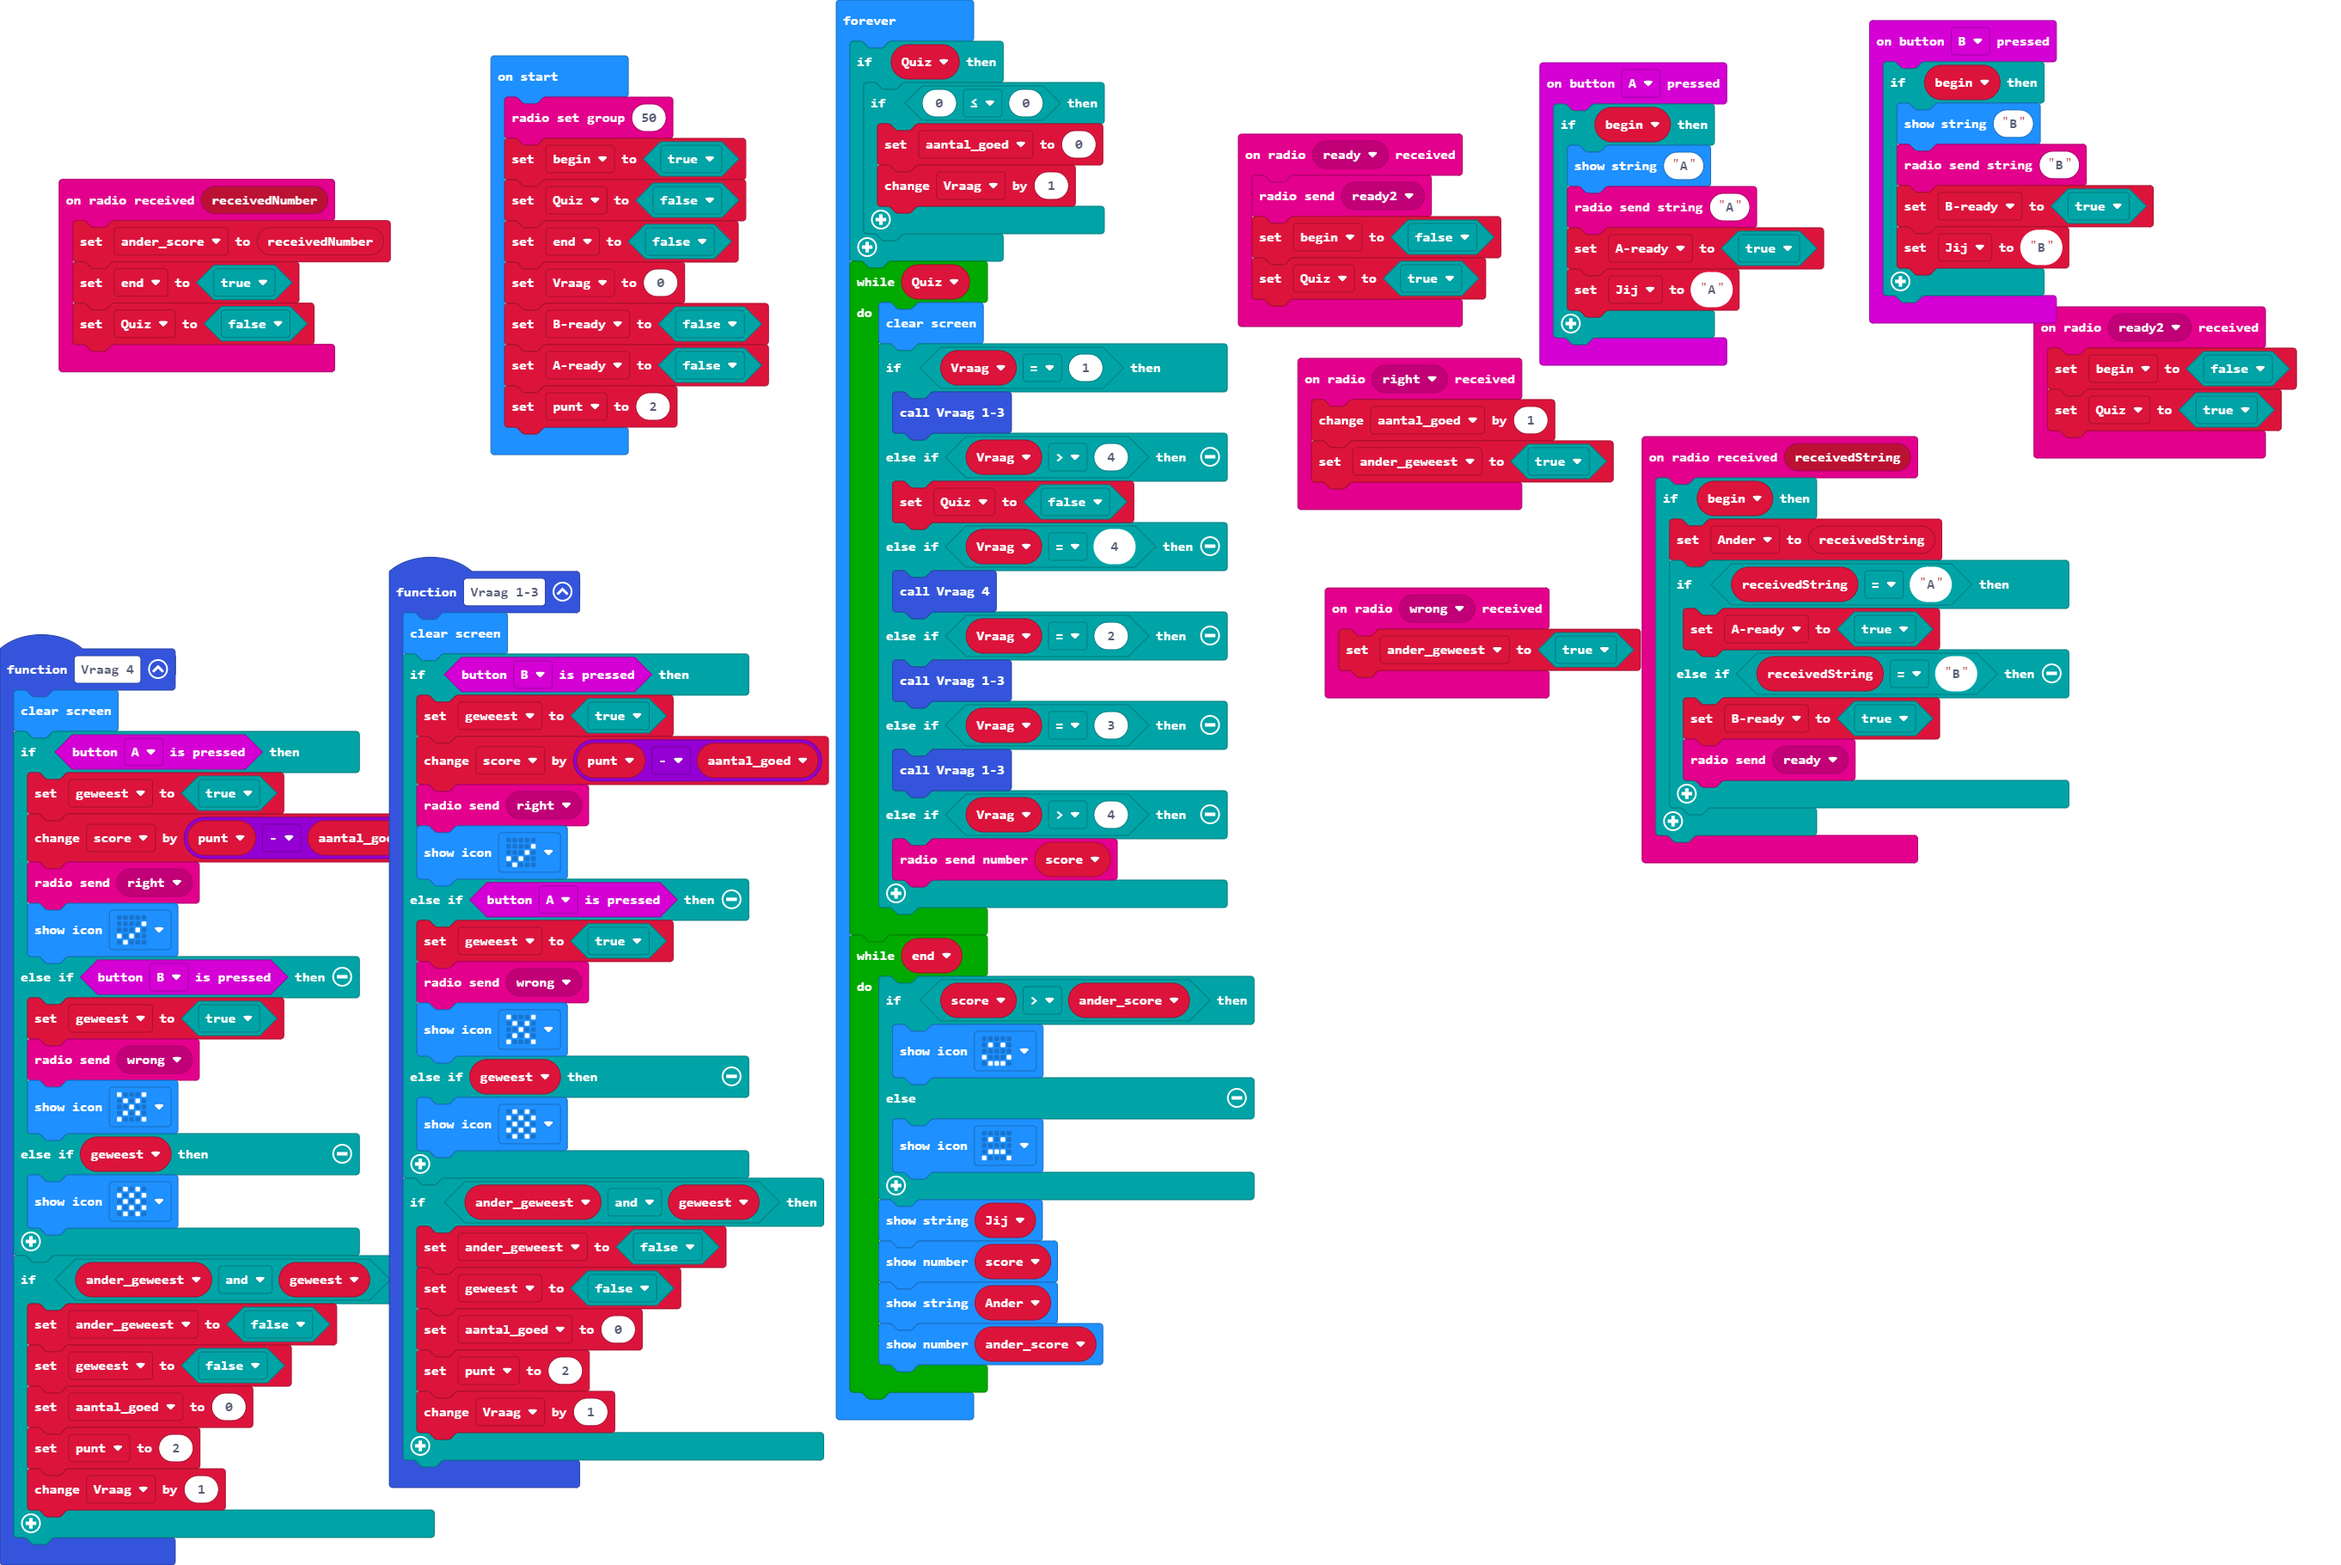
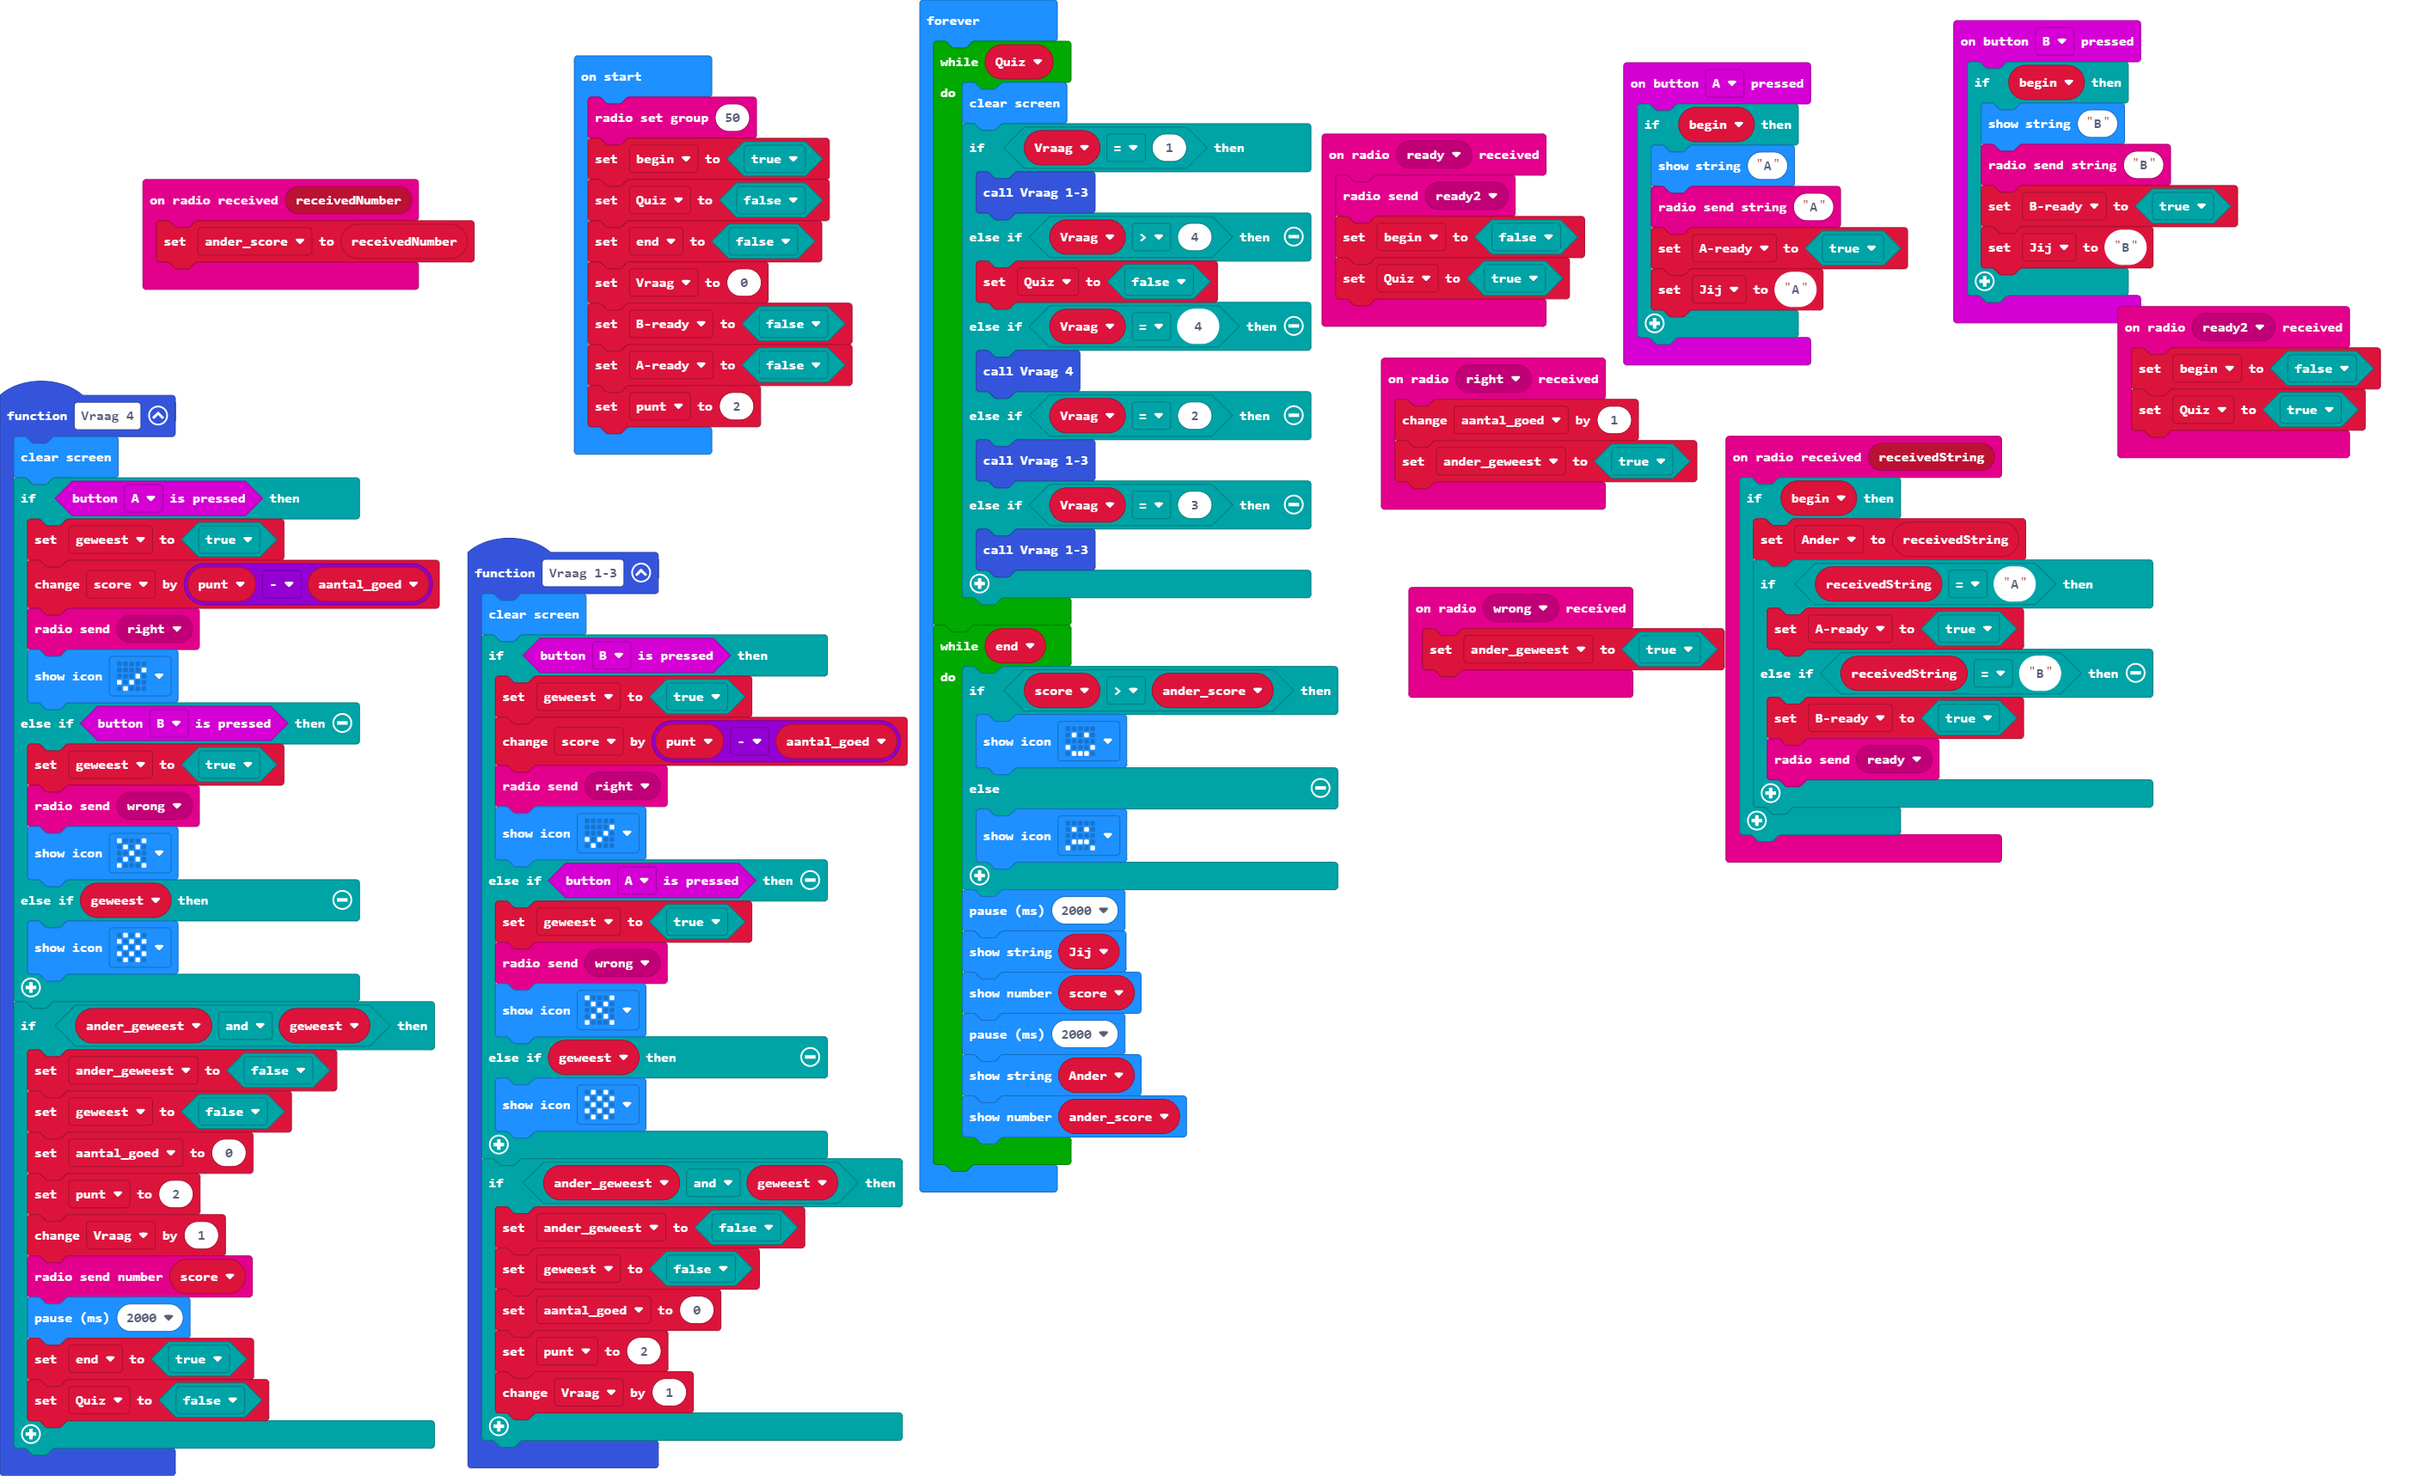
This is (hopefully) the final version

diff --git a/main.ts b/main.ts
@@ -8,8 +8,6 @@ enum RadioMessage {
 }
 radio.onReceivedNumber(function (receivedNumber) {
     ander_score = receivedNumber
-    end = true
-    Quiz = false
 })
 function Vraag_4 () {
     basic.clearScreen()
@@ -31,6 +29,10 @@ function Vraag_4 () {
         aantal_goed = 0
         punt = 2
         Vraag += 1
+        radio.sendNumber(score)
+        basic.pause(2000)
+        end = true
+        Quiz = false
     }
 }
 input.onButtonPressed(Button.A, function () {
@@ -120,12 +122,6 @@ Bready = false
 Aready = false
 punt = 2
 basic.forever(function () {
-    if (Quiz) {
-        if (0 <= 0) {
-            aantal_goed = 0
-            Vraag += 1
-        }
-    }
     while (Quiz) {
         basic.clearScreen()
         if (Vraag == 1) {
@@ -138,8 +134,6 @@ basic.forever(function () {
             Vraag_13()
         } else if (Vraag == 3) {
             Vraag_13()
-        } else if (Vraag > 4) {
-            radio.sendNumber(score)
         }
     }
     while (end) {
@@ -148,8 +142,10 @@ basic.forever(function () {
         } else {
             basic.showIcon(IconNames.Sad)
         }
+        basic.pause(2000)
         basic.showString(Jij)
         basic.showNumber(score)
+        basic.pause(2000)
         basic.showString(Ander)
         basic.showNumber(ander_score)
     }
